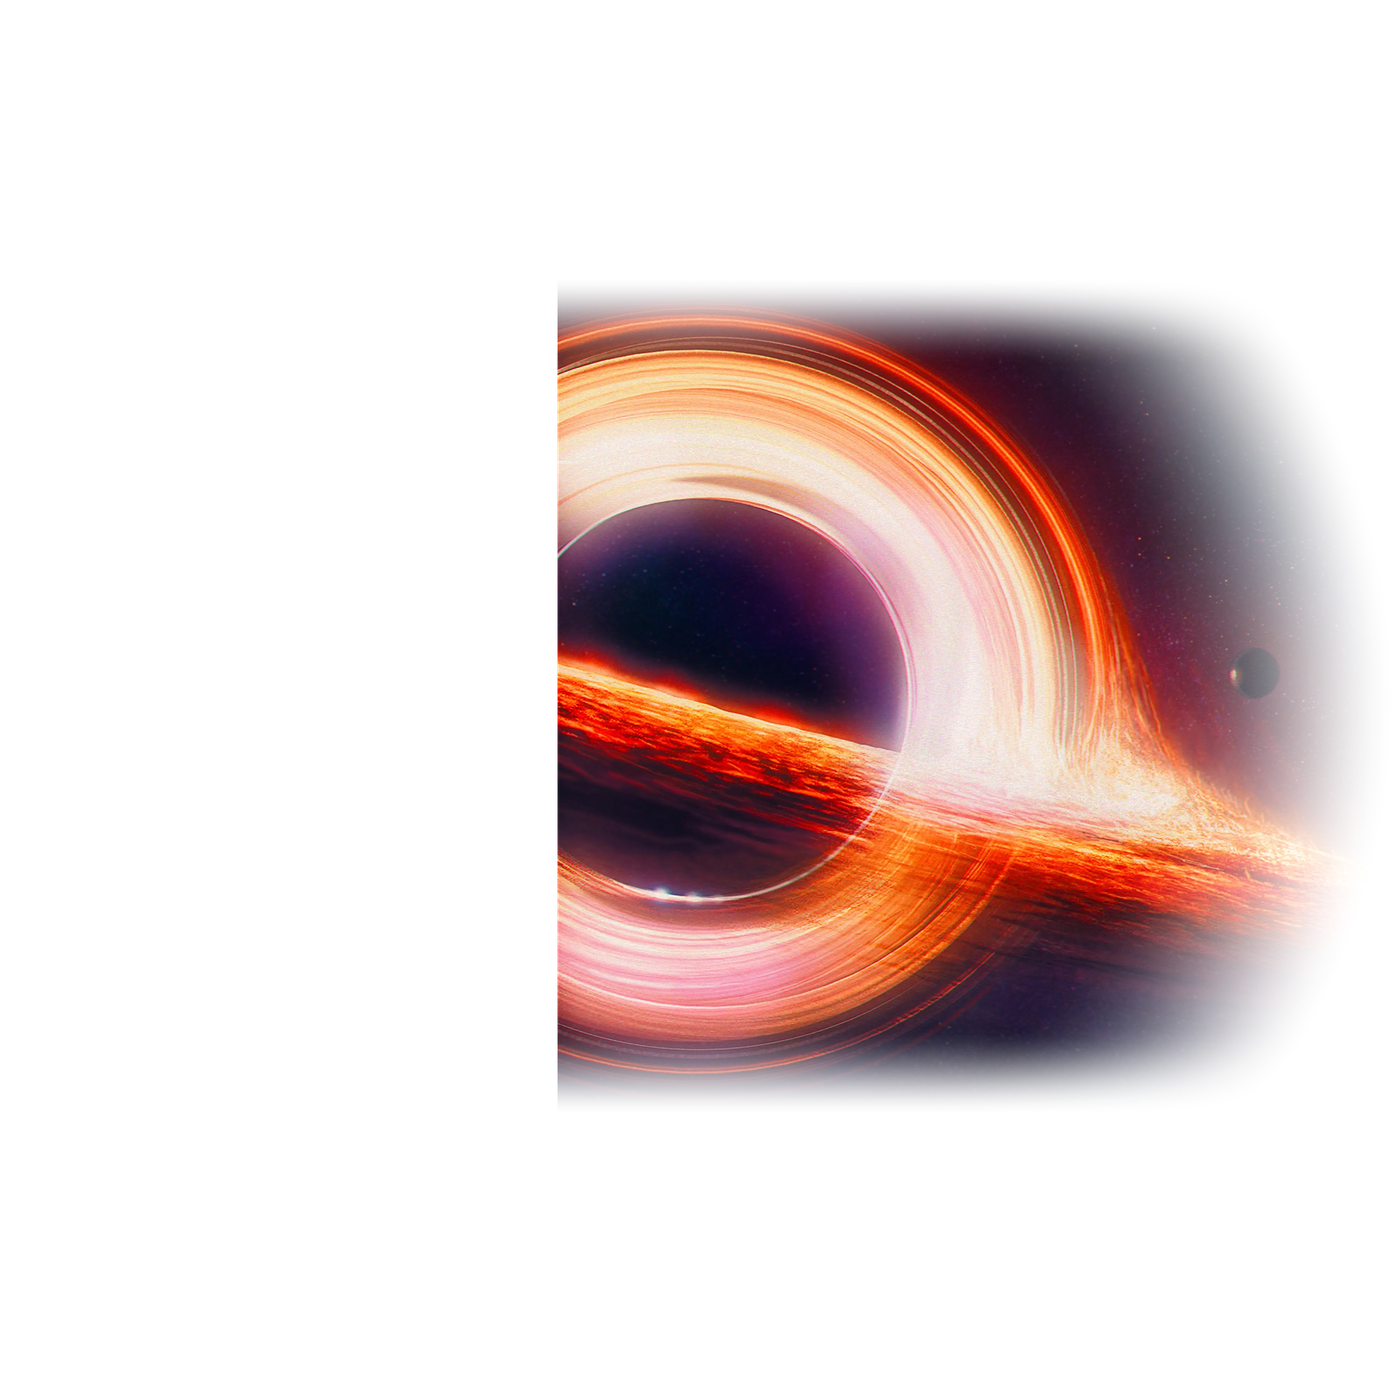
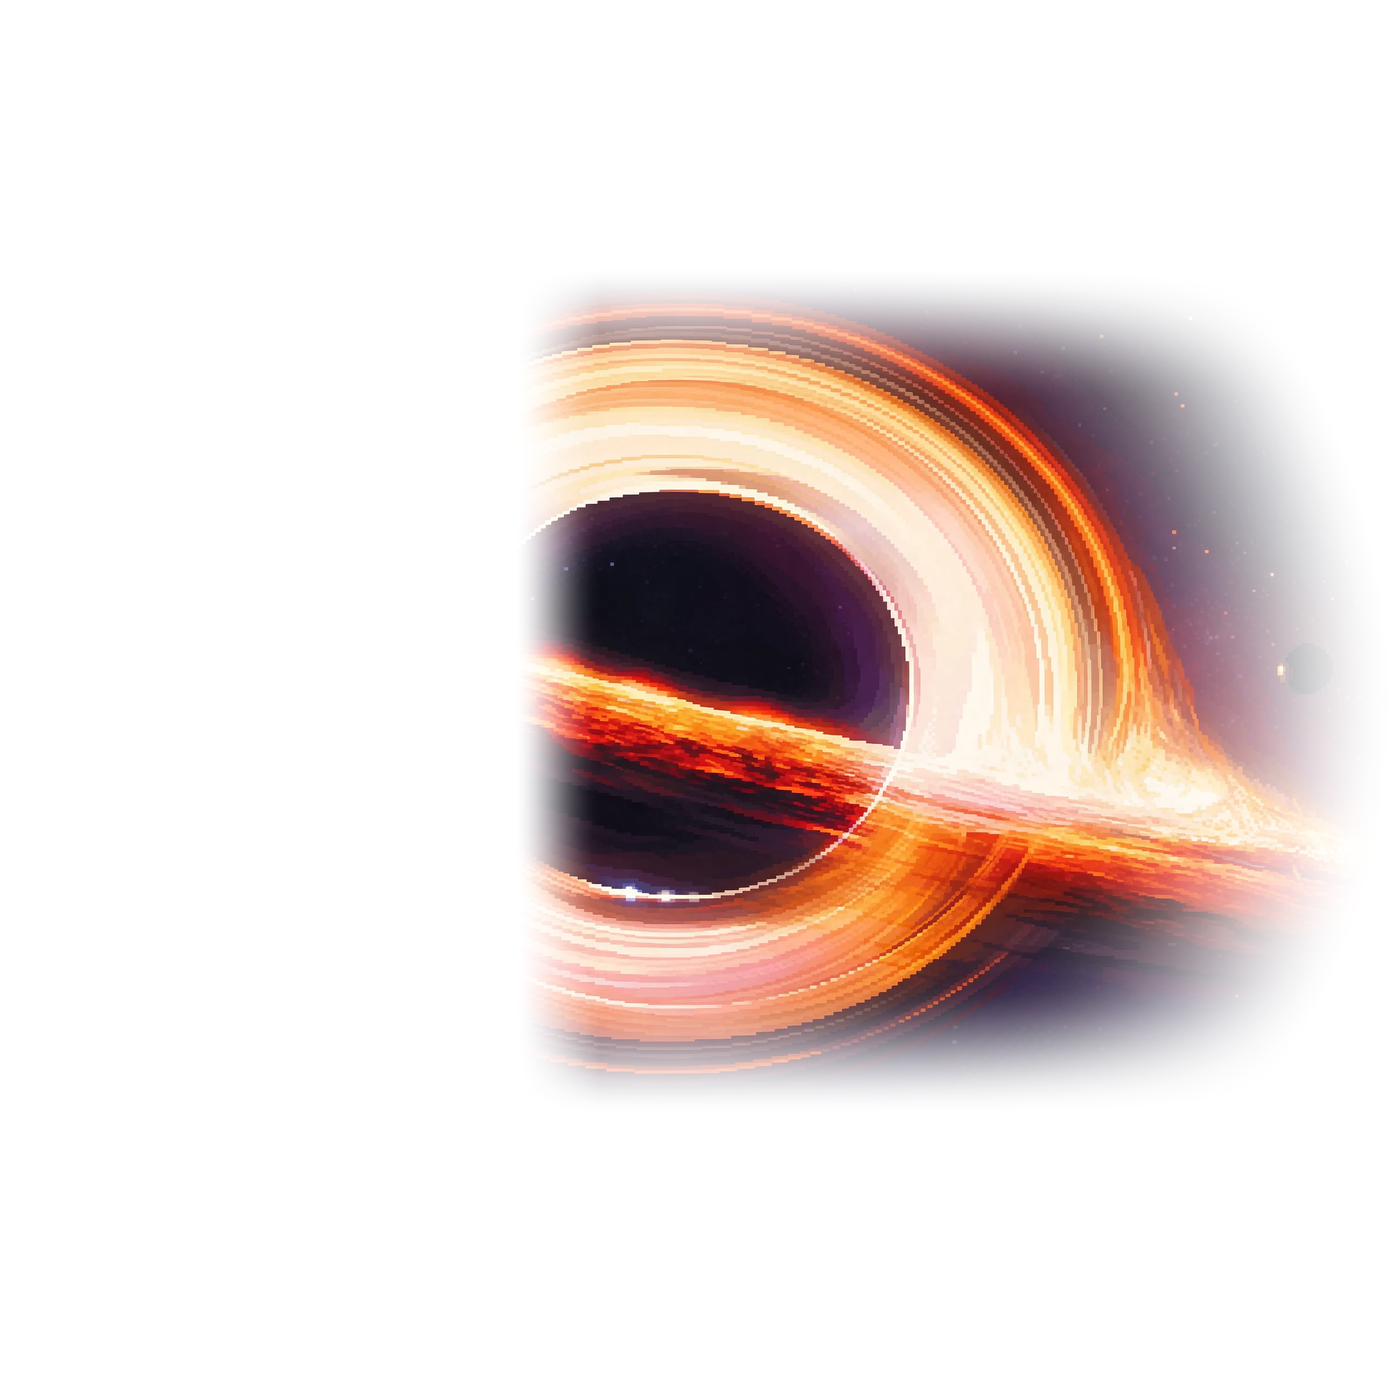
Pixel-art black hole, smooth growth, scrollable top scores
- Replace the black hole with the pixel-art picture (art/blackhole_pixel_source.png,
  cut by tools/prepare_blackhole.py) and fix RING_FRACTION to match it.
- The hole grows every frame with the fraction of fuel used, so it fills the
  race whatever the fuel time is set to.
- Darker arcade-style HUD; dark outline on the gauges so they stay readable
  over the hole near the end of a race.
- Top scores list scrolls when it is taller than the panel, with sticky
  headings, and scrolls to a fresh run.

Changed region(s): [[0.3686, 0.215, 0.9521, 0.7986]]

diff --git a/public/css/display.css b/public/css/display.css
@@ -288,7 +288,23 @@ body.display {
 .lb-title { margin: 0; font-size: 2cqw; }
 .lb-rule { margin: 0.3cqw 0 0.9cqw; font-size: 0.95cqw; color: var(--dim); }
 
+/* When the list is longer than the panel, the list scrolls (mouse wheel or
+   touchpad) and the space fact and "waiting" line stay put below it. */
+.lb-scroll {
+  flex: 0 1 auto;
+  min-height: 6cqw;
+  overflow-y: auto;
+  overscroll-behavior: contain;
+  scrollbar-width: thin;
+  scrollbar-color: rgba(143, 180, 255, 0.5) transparent;
+}
+.lb-scroll::-webkit-scrollbar { width: 0.5cqw; }
+.lb-scroll::-webkit-scrollbar-thumb { background: rgba(143, 180, 255, 0.5); border-radius: 0.25cqw; }
+.lb-scroll::-webkit-scrollbar-track { background: transparent; }
+
 #leaderboard { width: 100%; border-collapse: collapse; font-variant-numeric: tabular-nums; }
+/* Column headings stay visible while the list scrolls. */
+#leaderboard thead th { position: sticky; top: 0; z-index: 1; background: rgb(5, 7, 22); }
 #leaderboard th {
   font-size: 0.95cqw;
   font-weight: 500;
@@ -314,7 +330,7 @@ body.display {
 .dot { margin-right: 0.4cqw; }
 .lb-empty { margin: 1.2cqw 0; font-size: 1.25cqw; color: var(--dim); }
 
-#fact { margin: auto 0 0; padding-top: 1cqw; border-top: 1px solid var(--night-3); }
+#fact { flex-shrink: 0; margin: auto 0 0; padding-top: 1cqw; border-top: 1px solid var(--night-3); }
 #fact figcaption { font-size: 1cqw; color: var(--dim); }
 #fact blockquote { margin: 0.4cqw 0 0; }
 #fact .fact-text { margin: 0; font-size: 1.3cqw; line-height: 1.35; }
@@ -389,3 +405,111 @@ body.display {
 .test-row button kbd { display: block; font: 500 0.75cqw var(--font-en); color: var(--dim); }
 .test-pad { margin-bottom: 0.8cqw; padding-bottom: 0.6cqw; border-bottom: 1px solid var(--night-3); }
 #debug pre { margin: 0; font: 0.85cqw/1.4 Consolas, 'Courier New', monospace; white-space: pre-wrap; color: var(--dim); }
+
+/* ==================================================================
+   Darker, arcade-style HUD. Layout, ships and black holes are unchanged;
+   this block only darkens the sky and adds glow, corner brackets, a
+   segmented fuel bar and faint scanlines. Delete it to go back.
+   ================================================================== */
+
+#stage { background: #060818; }
+
+/* Faint scanlines and a dark vignette over the artwork only: under the text and
+   panels, so names, scores and the leaderboard stay bright. */
+.half { z-index: 2; }
+#stage::after {
+  content: '';
+  position: absolute;
+  inset: 0;
+  z-index: 1;
+  pointer-events: none;
+  background:
+    repeating-linear-gradient(to bottom, rgba(0, 0, 0, 0.14) 0 1px, transparent 1px 3px),
+    radial-gradient(ellipse at center, transparent 55%, rgba(0, 0, 0, 0.55) 100%);
+}
+
+/* Corner brackets framing each player's side, in the player's colour. */
+.half-inner::before,
+.half-inner::after {
+  content: '';
+  position: absolute;
+  width: 3.2cqw;
+  height: 3.2cqw;
+  border: 0.22cqw solid var(--pc);
+  opacity: 0.75;
+  filter: drop-shadow(0 0 0.5cqw var(--pc));
+  pointer-events: none;
+}
+#half1 .half-inner::before { top: 1cqw; left: 1cqw; border-right: 0; border-bottom: 0; }
+#half1 .half-inner::after { bottom: 1cqw; left: 1cqw; border-right: 0; border-top: 0; }
+#half2 .half-inner::before { top: 1cqw; right: 1cqw; border-left: 0; border-bottom: 0; }
+#half2 .half-inner::after { bottom: 1cqw; right: 1cqw; border-left: 0; border-top: 0; }
+
+/* Glow */
+#title h1 { text-shadow: 0 0 1.4cqw rgba(120, 170, 255, 0.55), 0 0.1cqw 0.6cqw rgba(0, 0, 0, 0.9); }
+#title .tagline { text-shadow: 0 0 1cqw rgba(255, 120, 60, 0.7); }
+.who .tag { text-shadow: 0 0 0.8cqw var(--pc); }
+.who .name { text-shadow: 0 0 1.4cqw color-mix(in srgb, var(--pc) 55%, transparent), 0 0.1cqw 0.7cqw rgba(0, 0, 0, 0.9); }
+.score-num { text-shadow: 0 0 1.4cqw color-mix(in srgb, var(--pc) 70%, transparent); }
+.score.final .score-num { text-shadow: 0 0 1.4cqw rgba(125, 255, 178, 0.6); }
+.status[data-tone="good"], .idle-status[data-tone="good"] { text-shadow: 0 0 1.2cqw rgba(125, 255, 178, 0.55); }
+.status[data-tone="bad"] { text-shadow: 0 0 1.2cqw rgba(255, 77, 106, 0.6); }
+.alert { text-shadow: 0 0 1.6cqw rgba(255, 77, 106, 0.85); }
+#countdown .num { text-shadow: 0 0 3cqw rgba(160, 190, 255, 0.55), 0 0 1cqw rgba(0, 0, 0, 0.9); }
+#countdown.go .num { text-shadow: 0 0 3.5cqw rgba(125, 255, 178, 0.8); }
+.verdict .v-main { text-shadow: 0 0 1.8cqw currentColor; }
+.shield-row img { filter: drop-shadow(0 0 0.45cqw rgba(238, 242, 255, 0.55)); }
+.shield-row img.lost { filter: none; }
+
+/* Segmented fuel bar, like a game power meter. */
+.bar {
+  height: 1.4cqw;
+  border-radius: 0.2cqw;
+  background: rgba(0, 0, 0, 0.5);
+  border: 1px solid rgba(238, 242, 255, 0.14);
+}
+.bar .fill {
+  border-radius: 0.1cqw;
+  background-image: repeating-linear-gradient(90deg, transparent 0 0.9cqw, rgba(0, 0, 0, 0.5) 0.9cqw 1.15cqw);
+  box-shadow: 0 0 1cqw color-mix(in srgb, var(--pc) 70%, transparent);
+}
+.fuel.low .bar .fill { animation: lowFuel 0.5s steps(2) infinite; box-shadow: 0 0 1.2cqw rgba(255, 77, 106, 0.8); }
+@keyframes lowFuel { 50% { opacity: 0.45; } }
+
+/* Leaderboard: darker glass with glowing bracket corners and striped rows. */
+#lobby {
+  background: rgba(3, 4, 14, 0.88);
+  border-color: rgba(120, 160, 255, 0.22);
+  border-radius: 0.3cqw;
+  box-shadow: 0 0 2.5cqw rgba(79, 139, 255, 0.12), inset 0 0 3cqw rgba(0, 0, 0, 0.6);
+}
+#lobby::before,
+#lobby::after {
+  content: '';
+  position: absolute;
+  width: 2.4cqw;
+  height: 2.4cqw;
+  border: 0.2cqw solid #8fb4ff;
+  filter: drop-shadow(0 0 0.5cqw #4f8bff);
+  pointer-events: none;
+}
+#lobby::before { top: -0.1cqw; left: -0.1cqw; border-right: 0; border-bottom: 0; }
+#lobby::after { bottom: -0.1cqw; right: -0.1cqw; border-left: 0; border-top: 0; }
+.lb-title { text-shadow: 0 0 1.2cqw rgba(120, 170, 255, 0.5); }
+#leaderboard tbody tr:nth-child(odd) td { background: rgba(255, 255, 255, 0.035); }
+#leaderboard td:first-child { padding-left: 0.5cqw; }
+#leaderboard tr.first td.c-score { color: #ffd76a; text-shadow: 0 0 1cqw rgba(255, 215, 106, 0.6); }
+.waiting { animation: waitingBlink 1.6s ease-in-out infinite; }
+@keyframes waitingBlink { 50% { opacity: 0.45; } }
+
+/* Near the end of a race the black hole fills the screen behind the gauges, and its
+   bright ring would wash out the numbers: give them a dark outline so they stay
+   readable on a projector. */
+.gauges, #title .tagline {
+  --outline: 0 0 0.25cqw rgba(0, 0, 0, 0.95), 0 0 0.6cqw rgba(0, 0, 0, 0.85);
+}
+.gauges .status, .score-label, .fuel-label, .fuel-sec, .hits, #title .tagline { text-shadow: var(--outline); }
+.score-num { text-shadow: var(--outline), 0 0 1.4cqw color-mix(in srgb, var(--pc) 70%, transparent); }
+.score.final .score-num { text-shadow: var(--outline), 0 0 1.4cqw rgba(125, 255, 178, 0.6); }
+.status[data-tone="good"] { text-shadow: var(--outline), 0 0 1.2cqw rgba(125, 255, 178, 0.55); }
+.status[data-tone="bad"] { text-shadow: var(--outline), 0 0 1.2cqw rgba(255, 77, 106, 0.6); }

diff --git a/public/js/scene.js b/public/js/scene.js
@@ -19,7 +19,7 @@ const STAR_LAYERS = [
 const IMPACT_APPROACH_MS = 90;
 // The bright ring's radius as a fraction of the black hole picture's width
 // (see tools/prepare_blackhole.py).
-const RING_FRACTION = 0.2875;
+const RING_FRACTION = 0.25;
 
 function rand(a, b) { return a + Math.random() * (b - a); }
 
@@ -135,11 +135,11 @@ export class Scene {
     c.width = hw;
     c.height = this.h;
     const g = c.getContext('2d');
-    g.fillStyle = '#0B1033';
+    g.fillStyle = '#060818';
     g.fillRect(0, 0, hw, this.h);
     const [r, gg, b] = hexToRgb(this.colors[`p${id}`]);
     // Two soft nebula clouds in the player's colour, very faint.
-    for (const [x, y, rad, a] of [[0.15, 0.25, 0.7, 0.16], [0.85, 0.85, 0.6, 0.1]]) {
+    for (const [x, y, rad, a] of [[0.15, 0.25, 0.7, 0.09], [0.85, 0.85, 0.6, 0.06]]) {
       const grad = g.createRadialGradient(hw * x, this.h * y, 0, hw * x, this.h * y, this.h * rad);
       grad.addColorStop(0, `rgba(${r},${gg},${b},${a})`);
       grad.addColorStop(1, `rgba(${r},${gg},${b},0)`);
@@ -148,7 +148,7 @@ export class Scene {
     }
     const vignette = g.createRadialGradient(hw / 2, this.h / 2, this.h * 0.3, hw / 2, this.h / 2, this.h);
     vignette.addColorStop(0, 'rgba(4,6,20,0)');
-    vignette.addColorStop(1, 'rgba(4,6,20,0.65)');
+    vignette.addColorStop(1, 'rgba(2,3,10,0.85)');
     g.fillStyle = vignette;
     g.fillRect(0, 0, hw, this.h);
     this.bgCache[id] = c;
@@ -278,11 +278,13 @@ export class Scene {
     if (phase === 'countdown') return hw * 0.3;
     if (p.status === 'docked') return hw * 0.14;   // escaped: it falls away behind
     if (p.status === 'outOfFuel') return hw * 1.7; // swallowed
-    // Grows faster and faster as the fuel runs out; frozen when shields go down.
+    // Grows continuously, every frame, from GO until the fuel runs out (no steps).
+    // It is driven by the fraction of fuel used, so it fills the whole race whatever
+    // the fuel time is set to. Frozen when shields go down.
     const fuel = s.fuelMs || 60000;
     const elapsed = p.doneAt != null ? p.lastedMs : this.clock() - s.goAt;
     const progress = Math.max(0, Math.min(1, elapsed / fuel));
-    return hw * (0.3 + 0.95 * progress ** 1.7);
+    return hw * (0.3 + 0.95 * progress ** 1.3);
   }
 
   drawBlackHole(g, half, hw, dt) {

diff --git a/public/js/display.js b/public/js/display.js
@@ -21,6 +21,7 @@ let leaderboard = [];
 let clients = [];
 let lastLeaderboardJson = '';
 let freshRaceId = null;
+let scrollToFresh = false; // see revealFreshRow()
 let lastCountdownNum = null;
 let factIndex = 0;
 let linkOpen = false;
@@ -300,6 +301,7 @@ function render() {
   } else notice.classList.remove('show');
 
   renderLeaderboard();
+  if (lobby) revealFreshRow();
   if (!$('#debug').hidden) renderDebug();
 }
 
@@ -343,8 +345,28 @@ function renderLeaderboard() {
     });
     tbody.append(tr);
   });
-  $('#leaderboard').style.display = leaderboard.length ? '' : 'none';
+  $('.lb-scroll').style.display = leaderboard.length ? '' : 'none';
   $('.lb-empty').style.display = leaderboard.length ? 'none' : '';
+  scrollToFresh = true;
+}
+
+/**
+ * A run that just made the list may be below the fold: scroll the list to it once
+ * the lobby is on screen (it is hidden while the result shows). Only the list box
+ * scrolls; scrollIntoView could also shift the whole stage.
+ */
+function revealFreshRow() {
+  const box = $('.lb-scroll');
+  if (!scrollToFresh || !box.clientHeight) return;
+  scrollToFresh = false;
+  const fresh = box.querySelector('tr.fresh');
+  if (!fresh) return;
+  const head = $('#leaderboard thead').offsetHeight;
+  if (fresh.offsetTop + fresh.offsetHeight > box.scrollTop + box.clientHeight) {
+    box.scrollTop = fresh.offsetTop + fresh.offsetHeight - box.clientHeight;
+  } else if (fresh.offsetTop - head < box.scrollTop) {
+    box.scrollTop = fresh.offsetTop - head;
+  }
 }
 
 function showFact(animate) {

diff --git a/public/index.html b/public/index.html
@@ -29,10 +29,12 @@
     <section id="lobby">
       <h2 class="lb-title"></h2>
       <p class="lb-rule"></p>
-      <table id="leaderboard">
-        <thead><tr><th class="rank"></th><th class="c-name"></th><th class="c-score"></th><th class="c-time"></th><th class="c-shields"></th></tr></thead>
-        <tbody></tbody>
-      </table>
+      <div class="lb-scroll">
+        <table id="leaderboard">
+          <thead><tr><th class="rank"></th><th class="c-name"></th><th class="c-score"></th><th class="c-time"></th><th class="c-shields"></th></tr></thead>
+          <tbody></tbody>
+        </table>
+      </div>
       <p class="lb-empty"></p>
       <figure id="fact">
         <figcaption class="fact-label"></figcaption>

diff --git a/tools/prepare_blackhole.py b/tools/prepare_blackhole.py
@@ -1,6 +1,6 @@
 """Prepare the black hole art for the game.
 
-Reads art/blackhole_source.png (the full wallpaper) and writes
+Reads art/blackhole_pixel_source.png (the pixel-art wallpaper) and writes
 public/assets/blackhole.png: a square cut-out centred on the black hole, with the
 edges faded to transparent so it blends into the star field, flipped so the
 accretion disk sweeps to the right (the game draws it at the left edge of Player 1's
@@ -17,12 +17,12 @@ import numpy as np
 from PIL import Image
 
 ROOT = Path(__file__).resolve().parent.parent
-SRC = ROOT / "art" / "blackhole_source.png"
+SRC = ROOT / "art" / "blackhole_pixel_source.png"
 OUT = ROOT / "public" / "assets" / "blackhole.png"
 
-HOLE_CENTER = (3433, 1214)  # centre of the dark core in the source picture
-RING_RADIUS = 1150          # outer edge of the bright ring, in source pixels
-HALF = 2000                 # half the size of the square cut-out, in source pixels
+HOLE_CENTER = (2470, 810)   # centre of the dark core in the source picture
+RING_RADIUS = 650           # outer edge of the bright ring, in source pixels
+HALF = 1300                 # half the size of the square cut-out, in source pixels
 SIZE = 1400                 # output size in pixels
 
 
@@ -41,7 +41,11 @@ def main() -> None:
     # The ring almost touches the top and bottom of the source picture: fade those
     # edges too, so no straight line shows.
     top, bottom = HALF - cy, HALF - cy + src.height
+    # The hole also sits close to the picture's right edge (off screen in the game,
+    # but faded anyway so a straight line can never show).
+    left, right = HALF - cx, HALF - cx + src.width
     edge = np.clip((yy - top) / 260, 0, 1) * np.clip((bottom - yy) / 260, 0, 1)
+    edge = edge * np.clip((xx - left) / 160, 0, 1) * np.clip((right - xx) / 160, 0, 1)
     edge = edge * edge * (3 - 2 * edge)
     arr = np.asarray(square).astype(np.float32)
     arr[..., 3] = arr[..., 3] * fade * edge
